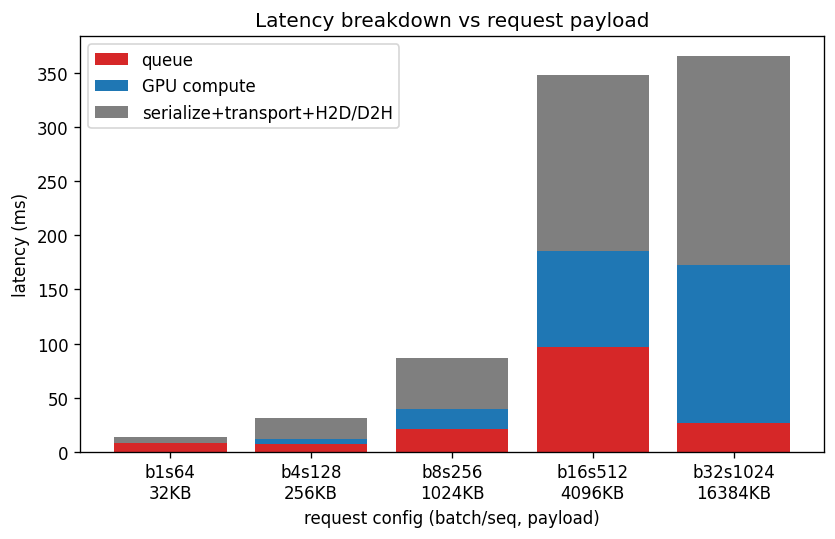
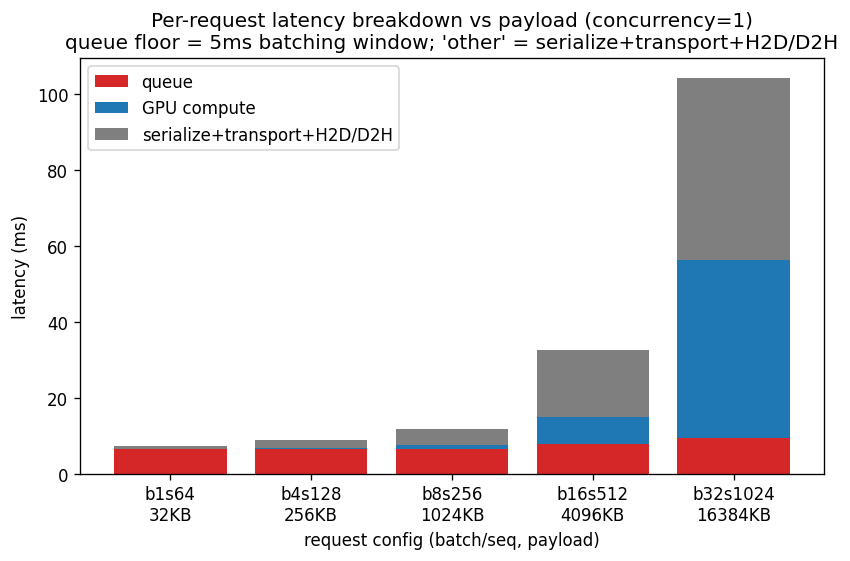
Clarify worker-scaling chart + fix breakdown to clean per-request decomposition
Worker scaling chart: dual-axis (throughput bars + autoscaled speedup line with
value labels) so the peak-at-2-3-then-decline is readable; the misleading
ideal-to-8 line is moved to the title note.

Breakdown: re-measured at concurrency=1 (no contention / batch-merging
inflation). queue is now a flat ~6.5ms window floor; 'other' (communication)
scales with payload; compute overtakes it for large requests. Verified the
large queue/communication previously shown was NOT a bug via a controlled
A/B/C test (direct vs dispatcher, conc=1 vs 16): communication is only ~0.9ms
per 1MB in isolation; high-concurrency numbers reflect batching merging
16x1MB into one 16MB worker call. README + REPORT updated; PDF/docx regenerated.

Changed region(s): [[0.0, 0.0, 0.9964, 0.9796]]

diff --git a/scripts/plot.py b/scripts/plot.py
@@ -97,14 +97,32 @@ def plot_workers():
     tp = [r["throughput_rps"] for r in rows]
     base = tp[0] if tp else 1.0
     speedup = [t / base for t in tp]
-    fig, ax1 = plt.subplots(figsize=(6, 4))
-    ax1.plot(n, speedup, "o-", color="tab:purple", label="speedup")
-    ax1.plot(n, n, "k:", alpha=0.5, label="ideal")
-    ax1.set_xlabel("# workers (sharing one GPU)")
-    ax1.set_ylabel("speedup vs 1 worker")
-    ax1.set_xticks(n)
-    ax1.legend(loc="upper left")
-    ax1.set_title("Worker scaling (dispatcher, batch=8 S=256)")
+    x = list(range(len(n)))
+
+    fig, ax1 = plt.subplots(figsize=(7, 4.5))
+    ax1.bar(x, tp, color="tab:purple", alpha=0.65, label="throughput")
+    ax1.set_xticks(x)
+    ax1.set_xticklabels(n)
+    ax1.set_xlabel("# workers (all sharing one physical GPU)")
+    ax1.set_ylabel("throughput (req/s)", color="tab:purple")
+    ax1.tick_params(axis="y", labelcolor="tab:purple")
+    ax1.set_ylim(0, max(tp) * 1.18)
+    for xi, t in zip(x, tp):
+        ax1.text(xi, t + max(tp) * 0.02, f"{t:.0f}", ha="center", fontsize=8,
+                 color="tab:purple")
+
+    ax2 = ax1.twinx()
+    ax2.plot(x, speedup, "o-", color="tab:red", lw=2, label="speedup")
+    ax2.axhline(1.0, color="gray", ls=":", alpha=0.6)
+    ax2.set_ylabel("speedup vs 1 worker", color="tab:red")
+    ax2.tick_params(axis="y", labelcolor="tab:red")
+    ax2.set_ylim(0.9, max(speedup) * 1.25)
+    for xi, s in zip(x, speedup):
+        ax2.annotate(f"{s:.2f}×", (xi, s), textcoords="offset points",
+                     xytext=(0, 7), ha="center", fontsize=8, color="tab:red")
+
+    ax1.set_title("Worker scaling — throughput peaks at 2–3 workers, then declines\n"
+                  "(all workers time-share one GPU; ideal would be N×, off-chart)")
     save(fig, "worker_scaling.png")
 
 
@@ -142,7 +160,8 @@ def plot_breakdown():
     ax.set_xticklabels(labels)
     ax.set_xlabel("request config (batch/seq, payload)")
     ax.set_ylabel("latency (ms)")
-    ax.set_title("Latency breakdown vs request payload")
+    ax.set_title("Per-request latency breakdown vs payload (concurrency=1)\n"
+                 "queue floor = 5ms batching window; 'other' = serialize+transport+H2D/D2H")
     ax.legend()
     save(fig, "breakdown.png")
 

diff --git a/README.md b/README.md
@@ -155,19 +155,36 @@ contention — not extra compute.
 22.1 / 20.8 / 23.5ms latency at (batch=16,S=128); TILE=16 is best for these
 small (D=128) matrices.
 
-**Bottleneck breakdown** (`results/breakdown.png`) — swept over request payloads
-from 32KB to 16MB (queue / GPU compute / serialize+transport+H2D·D2H, ms):
+**Bottleneck breakdown** (`results/breakdown.png`) — per-request decomposition
+at **concurrency=1** (no contention) over payloads 32KB→16MB (queue / GPU
+compute / serialize+transport+H2D·D2H, ms):
 
-| config | payload | queue | compute | transport |
+| config | payload | queue | compute | other |
 |---|---|---|---|---|
-| b1 s64   | 32KB  | 7.7  | 0.5   | 5.9   |
-| b4 s128  | 256KB | 7.7  | 3.8   | 19.3  |
-| b8 s256  | 1MB   | 21.2 | 18.7  | 46.5  |
-| b16 s512 | 4MB   | 96.9 | 88.6  | 162.1 |
-| b32 s1024| 16MB  | 26.4 | 146.4 | 192.9 |
+| b1 s64   | 32KB  | 6.5 | 0.1  | 0.7  |
+| b4 s128  | 256KB | 6.5 | 0.3  | 2.0  |
+| b8 s256  | 1MB   | 6.5 | 1.2  | 4.1  |
+| b16 s512 | 4MB   | 7.7 | 7.2  | 17.6 |
+| b32 s1024| 16MB  | 9.5 | 46.8 | 47.9 |
 
-Clear crossover: small payloads are **transport/serialize-bound** (the documented
-protobuf-payload bottleneck); large payloads become **GPU-compute-bound**.
+`queue` is a flat ~6.5ms floor = the dispatcher's 5ms batching window (fixed
+overhead). `other` (communication) scales with payload, and `compute` overtakes
+it for large requests (window/transport-bound → compute-bound crossover).
+
+**Is the large queue/communication seen under load a bug? No.** Controlled check
+on the same 1MB request:
+
+| scenario | latency | queue | compute | other(comm) |
+|---|---|---|---|---|
+| A. direct to worker, conc=1 | 2.1 | 0.0 | 1.2 | **0.9** |
+| B. via dispatcher, conc=1   | 11.9 | 6.5 | 1.2 | 4.3 |
+| C. via dispatcher, conc=16  | 80.0 | 20.8 | 17.2 | 42.0 |
+
+Communication is only **0.9ms per 1MB in isolation** (A) — no leak. Under high
+concurrency (C) the dispatcher merges 16×1MB into one 16MB worker call, so each
+request's `compute`/`other` reflect the *whole merged batch* (batching trades
+latency for throughput); `queue+compute+other = latency` stays consistent. The
+large numbers are a saturated/batched regime, not a measurement error.
 
 ## Model config
 Worker default loaded from `fixtures/dims.txt`: `D=128, H=8, d_head=16, FFN=4D`